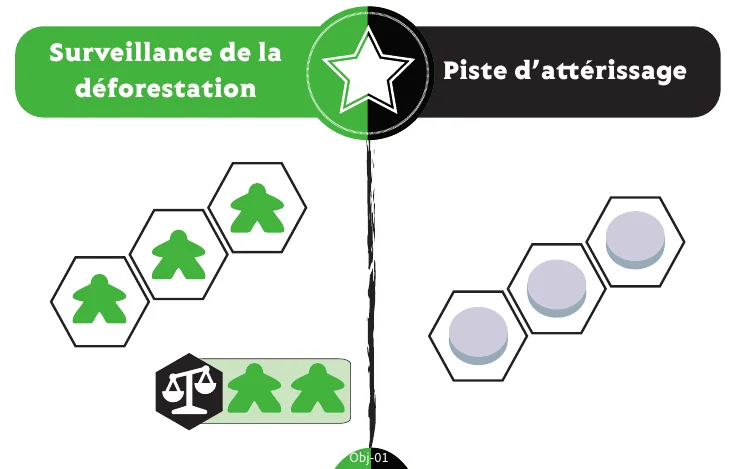
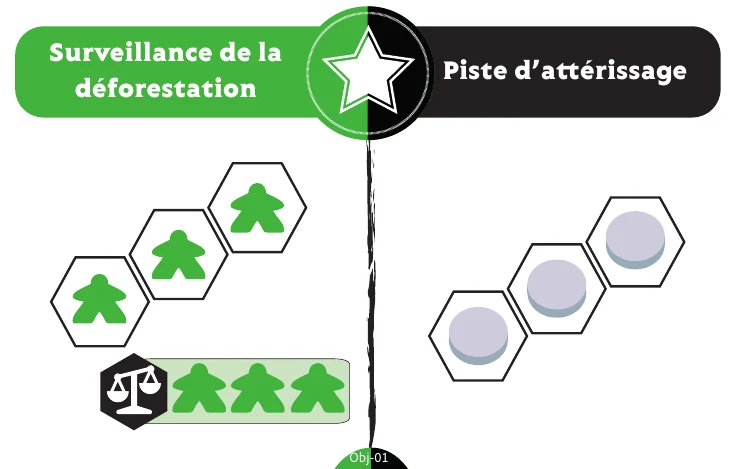
Animaux : 1 $ par manche (nouveaux plateaux Exploitant), Objectifs 01/03/05/07/13 mis à jour, IA plus coopérative
Claude-Session: https://claude.ai/code/session_019mekHYufM5kYLzaHXRVvRv

Changed region(s): [[0.125, 0.7463, 0.4062, 0.9254]]

diff --git a/index.html b/index.html
@@ -632,6 +632,7 @@ const CARD = Object.fromEntries([...PROTECTEURS,...ENQUETES,...LUXE,...EVENEMENT
 const BACK = { pr:'img/cards/back_pr.webp', en:'img/cards/back_en.webp', lx:'img/cards/back_lx.webp', ev:'img/cards/back_ev.webp' };
 const TOK = n => `img/tok/${n}.png`;
 let EXPL = ['orange','bleu'];
+const ANIMAL_INC = 1; // $ par Animal à chaque fin de manche
 const NAMES = { F:'le Protecteur', orange:'Orange', bleu:'Bleu', blanc:'Blanc' };
 const CAP = t => t.charAt(0).toUpperCase()+t.slice(1);
 const NAME = s => s==='F' ? 'le Protecteur' : (EXPL.includes(s) ? 'Exploitant '+(EXPL.indexOf(s)+1) : (NAMES[s]||s));
@@ -1009,7 +1010,7 @@ function endRound(){
     for (const c of EXPL){ S.expl[c].meeplesHand+=S.arenas[a][c]; } S.arenas[a]=Object.fromEntries(S.seats.map(x=>[x,0]));
   }
   // c) Revenus
-  for (const c of EXPL){ const n=S.expl[c].cards.Animal.length; if(n){ S.expl[c].money+=2*n; statM(c,'+Revenus des Animaux',2*n); log(`${CAP(NAME(c))} : revenus +${2*n} $ (${n} Animal).`); } }
+  for (const c of EXPL){ const n=S.expl[c].cards.Animal.length; if(n){ S.expl[c].money+=ANIMAL_INC*n; statM(c,'+Revenus des Animaux',ANIMAL_INC*n); log(`${CAP(NAME(c))} : revenus +${ANIMAL_INC*n} $ (${n} Animal).`); } }
   // d) Victoire des Exploitants
   const top=Math.max(...EXPL.map(c=>S.expl[c].vp));
   if (top>=4){ const cands=EXPL.filter(c=>S.expl[c].vp===top).sort((a,b)=>S.expl[b].money-S.expl[a].money); S.over={winner:cands[0],why:`${CAP(NAME(cands[0]))} atteint ${top} Prestige.`}; log(`🏆 ${NAME(cands[0])} gagne la partie !`, true); render(); return; }
@@ -1276,8 +1277,8 @@ function matchMulti(cells, k){ // k groupes disjoints du même motif, n'importe 
   return rec(0,new Set()) ? pick.flat() : null; }
 const arenaOk = (a,n) => S.arenas[a].F>=n;
 // Arène et nombre de Peuples demandés par chaque Objectif de la Forêt
-const OBJ_AR = { Obj01:['judiciaire',2], Obj02:['politique',3], Obj03:['judiciaire',3], Obj04:['politique',3], Obj05:['judiciaire',2], Obj06:['politique',2], Obj07:['politique',2], Obj08:['judiciaire',2],
-  Obj09:['media',2], Obj10:['media',2], Obj11:['media',2], Obj12:['media',2], Obj13:['judiciaire',2], Obj14:['media',4], Obj15:['politique',3] };
+const OBJ_AR = { Obj01:['judiciaire',3], Obj02:['politique',3], Obj03:['judiciaire',3], Obj04:['politique',3], Obj05:['judiciaire',2], Obj06:['politique',2], Obj07:['politique',3], Obj08:['judiciaire',2],
+  Obj09:['media',2], Obj10:['media',2], Obj11:['media',2], Obj12:['media',2], Obj13:['judiciaire',3], Obj14:['media',4], Obj15:['politique',3] };
 const fAr = id => arenaOk(...OBJ_AR[id]);
 const destroyProd = id => { const p=Z(id).piece; Z(id).piece=null; S.expl[p.owner].prod[p.kind]++; log(`${PROD[p.kind]} ${NAME(p.owner)} détruit.`); };
 function bestLine(id, filt){ // meilleure ligne (3 axes) passant par id : zones qui passent le filtre
@@ -1299,7 +1300,7 @@ const OBJ = {
           actF:{lbl:'Placer 2 Forêt du C',run(done){ pickZones('Coopérative','Cliquez une zone vide ou boisée',()=>S.forest.C?allZ().filter(canPlaceForest):[],2,id=>placeFromC(id),done); }},
           actE:{lbl:'Récolter 2 fois vos Bétail',run(c,done){ harvestKind(c,'betail'); harvestKind(c,'betail'); done(); }} },
   Obj03:{ F:()=>fAr('Obj03') && !prodZones('coca').length,
-          E:()=>matchPattern([[0,0,pK('coca')],[0,-1,pP],[-1,0,pP],[1,-1,pP],[-1,1,pP]]),
+          E:()=>matchPattern([[0,0,pK('coca')],[0,-1,pP],[-1,0,pP],[1,-1,pP]]),
           actF:{lbl:'Détruire 1 Coca',run(done){ pickZones('Narcotrafic','Cliquez la Coca à détruire',()=>prodZones('coca'),1,destroyProd,done); }},
           actE:{lbl:'Récolter 2 fois vos Coca',run(c,done){ harvestKind(c,'coca'); harvestKind(c,'coca'); done(); }} },
   Obj04:{ F:()=>fAr('Obj04') && !prodZones('soja').length,
@@ -1315,7 +1316,7 @@ const OBJ = {
           actF:{lbl:'1 Peuple sur une zone boisée adjacente à une production',run:placePeuple('Patrouilles',()=>allZ().filter(id=>isWooded(id)&&ZB[id].adj.some(isProd)))},
           actE:{lbl:'Retirer 2 jetons Forêt n’importe où',run(c,done){ pickZones('Scierie','Cliquez une zone boisée sans Peuple (1 jeton retiré)',()=>allZ().filter(id=>isWooded(id)&&!Z(id).meeple),2,id=>{ const z=Z(id); z.forest--; S.forest.C++; fly(TOK('foret_r'),{zone:id},{sel:'#sum-F .c-C'}); if(!z.forest&&z.res){ S.expl[c].storage[z.res]++; log(`${CAP(NAME(c))} prend 1 ${z.res==='or'?'Or':'Pétrole'} !`, true); z.res=null; } log('Scierie : 1 jeton Forêt retiré (vers C).'); },done,{repeat:true}); }} },
   Obj07:{ F:()=>fAr('Obj07') && !!matchMulti([[0,0,pD],[0,1,pM]],3),
-          E:()=>matchPattern([[0,0,pP],[-1,1,pP],[-2,2,pP],[-2,3,pP],[-2,4,pP]]),
+          E:()=>matchPattern([[0,0,pP],[1,0,pP],[2,0,pP],[1,1,pP]]),
           actF:{lbl:'Régénérer 3',run(done){ regenerate(3); done(); }},
           actE:{lbl:'Renforcer vos productions sur une ligne',run(c,done){ pickZones('Ligne électrique','Cliquez une de vos productions affaiblies : toutes celles de la même ligne sont renforcées',()=>myProds(c).filter(id=>Z(id).piece.weak),1,id=>{ bestLine(id,z=>{ const p=Z(z).piece; return p&&p.type==='prod'&&p.owner===c&&p.weak; }).forEach(z=>{ Z(z).piece.weak=false; ANIM.push({type:'flip',zone:z,from:TOK(`${c}_${Z(z).piece.kind}_v`),to:TOK(`${c}_${Z(z).piece.kind}_r`)}); }); log(`${CAP(NAME(c))} renforce ses productions sur une ligne.`); },done); }} },
   Obj08:{ F:()=>fAr('Obj08') && !!matchMulti([[0,0,onOil(pP)],[0,1,pM]],2),
@@ -1625,10 +1626,10 @@ function refreshT(){ UI.T = S.over ? EMPTYT() : S.pending.length ? (/^align/.tes
 
 /* ---------- Poids (appris d'une partie à l'autre) ---------- */
 const W0 = { // v3.1 : valeur de l'argent et des cultures calculée d'après les règles, ré-entraîné
-  E:{ vp:2.331, money:-0.197, res:3.125, prod:0.635, harvest:0.033, cards:0.747, ctDone:1.425, ctHand:0.368, atouts:0.354, donation:0.455, arena:0.686, frontier:0.132, forestTok:0.01, conscience:-8.665, rivalVp:-2.19, align:0.19, objProg:3, luxeReady:1.324, threat:-0.621, rivalObj:-0.8, forestObj:-2.289, forestArena:-0.999, objNear:2.5, moneyPV:3.855, prodPot:1.918 },
+  E:{ vp:2.331, money:-0.197, res:3.125, prod:0.635, harvest:0.033, cards:0.747, ctDone:1.425, ctHand:0.368, atouts:0.354, donation:0.455, arena:0.686, frontier:0.132, forestTok:0.01, conscience:-8.665, rivalVp:-2.19, align:0.19, objProg:3, luxeReady:1.324, threat:-0.621, rivalObj:-0.8, forestObj:-2.289, forestArena:-0.999, objNear:2.5, coop:1.5, moneyPV:3.855, prodPot:1.918 },
   F:{ conscience:20.018, wooded:1.961, forestTok:1.083, dense:0.949, meeples:0.852, arena:1.2, tokens:0.912, published:5.68, fresque:3.33, hand:0.715, explVp:-7.866, explProd:-3.991, explMoney:-0.483, align:2.274, objProg:7.769, pubReady:2.565, exposed:-0.418, explObj:-2.468, explNear:-3 },
 };
-function aiStore(){ try{ return JSON.parse(localStorage.getItem('amazonia_ai_v31')||'null'); }catch(e){ return null; } }
+function aiStore(){ try{ return JSON.parse(localStorage.getItem('amazonia_ai_v32')||'null'); }catch(e){ return null; } }
 function freshRole(r,w){ return { champ:{...w}, chall:mutate(w), cg:0, cs:0, xg:0, xs:0, gen:1, games:0, promos:0 }; }
 function aiBrain(){ // cerveau : champion + challenger testé à tour de rôle (partagé en ligne si possible)
   let b=aiStore();
@@ -1636,14 +1637,14 @@ function aiBrain(){ // cerveau : champion + challenger testé à tour de rôle (
   for (const r of ['E','F']) for (const k in W0[r]){ if(b.roles[r].champ[k]===undefined) b.roles[r].champ[k]=W0[r][k]; if(b.roles[r].chall[k]===undefined) b.roles[r].chall[k]=b.roles[r].champ[k]; }
   return b;
 }
-function aiSaveBrain(b){ try{ localStorage.setItem('amazonia_ai_v31', JSON.stringify(b)); }catch(e){} }
+function aiSaveBrain(b){ try{ localStorage.setItem('amazonia_ai_v32', JSON.stringify(b)); }catch(e){} }
 function gauss(){ return Math.sqrt(-2*Math.log(Math.random()||1e-9))*Math.cos(2*Math.PI*Math.random()); }
 function mutate(w){ const o={}; for (const k in w) o[k]=+(w[k]*(1+0.12*gauss())).toFixed(3); return o; }
 let BRAIN=null, BDB=null;
 function brainDB(){ if (BDB!==null) return BDB; try{ BDB = /fbfake/.test(location.hash) ? fakeDB() : fbDB(); }catch(e){ BDB=false; } return BDB; }
 function brainSync(){ // récupère le cerveau partagé
   const db=brainDB(); if(!db) return;
-  db.ready.then(()=>db.get(`${R}/brain31`)).then(v=>{ if (v&&v.roles&&v.roles.F&&v.roles.F.champ){ BRAIN=v; aiSaveBrain(v); if(!STARTED) showStart(); } else { const b=BRAIN||aiBrain(); db.tx(`${R}/brain31`, cur=>cur||b); } }).catch(()=>{});
+  db.ready.then(()=>db.get(`${R}/brain32`)).then(v=>{ if (v&&v.roles&&v.roles.F&&v.roles.F.champ){ BRAIN=v; aiSaveBrain(v); if(!STARTED) showStart(); } else { const b=BRAIN||aiBrain(); db.tx(`${R}/brain32`, cur=>cur||b); } }).catch(()=>{});
 }
 function aiAssign(){ // au lancement d'une partie : chaque camp IA reçoit le champion ou le challenger
   const b=BRAIN||(BRAIN=aiBrain()); S.aiW={}; S.aiUse={}; S.aiGen={};
@@ -1669,7 +1670,7 @@ function aiLearn(){
   const b=BRAIN||(BRAIN=aiBrain()); b.games=(b.games||0)+1;
   for (const r in res) b.roles[r]=learnRole(b.roles[r], S.aiUse[r], S.aiGen[r], res[r]);
   aiSaveBrain(b);
-  const db=brainDB(); if (db) db.ready.then(()=>{ for (const r in res) db.tx(`${R}/brain31/roles/${r}`, cur=>learnRole(cur, S.aiUse[r], S.aiGen[r], res[r])); db.tx(`${R}/brain31/games`, n=>(n||0)+1); }).catch(()=>{});
+  const db=brainDB(); if (db) db.ready.then(()=>{ for (const r in res) db.tx(`${R}/brain32/roles/${r}`, cur=>learnRole(cur, S.aiUse[r], S.aiGen[r], res[r])); db.tx(`${R}/brain32/games`, n=>(n||0)+1); }).catch(()=>{});
   log('🤖 L’IA retient cette partie pour s’améliorer.');
 }
 
@@ -1677,11 +1678,11 @@ function aiLearn(){
 const OBJ_PART = { // motifs côté Exploitant (progrès partiel pour l'IA)
   Obj01:()=>SHAPE.line.map(c=>[...c,pP]),
   Obj02:()=>[[0,0,pK('betail')],[1,0,pE],[0,1,pE],[1,1,pK('betail')]],
-  Obj03:()=>[[0,0,pK('coca')],[0,-1,pP],[-1,0,pP],[1,-1,pP],[-1,1,pP]],
+  Obj03:()=>[[0,0,pK('coca')],[0,-1,pP],[-1,0,pP],[1,-1,pP]],
   Obj04:()=>[[0,0,pK('soja')],[1,-1,pK('soja')],[1,0,pK('soja')],[0,1,pBase]],
   Obj05:()=>SHAPE.zig5.map(c=>[...c,pP]),
   Obj06:()=>[[0,0,pD],[-1,1,pD],[1,0,pP],[0,1,pP],[-1,2,pP]],
-  Obj07:()=>[[0,0,pP],[-1,1,pP],[-2,2,pP],[-2,3,pP],[-2,4,pP]],
+  Obj07:()=>[[0,0,pP],[1,0,pP],[2,0,pP],[1,1,pP]],
   Obj08:()=>[[0,0,onOil(pP)],[-1,1,pP],[-1,2,onOil(pP)]],
   Obj09:()=>[[0,0,pP],[0,1,onMine(pP)],[-1,2,pP],[1,1,pP]],
   Obj10:()=>[[0,0,pP],[1,0,pP],[1,1,pP],[2,1,pP]],
@@ -1708,18 +1709,18 @@ function partialPatF(key){ let best=0; for (const pl of placements('F'+key, CELL
     if (!bad && ok/pl.length>best) best=ok/pl.length; } return best; }
 function objInfo(){ // IA opportuniste : motifs partagés, participation possible, motifs à 1 coup de la fin
   const adj=Object.fromEntries(EXPL.map(c=>[c,new Set(explAdj(c))]));
-  const R={prog:{},near:{},excl:{},anyNear:0}; EXPL.forEach(c=>{ R.prog[c]=0; R.near[c]=0; R.excl[c]=0; });
+  const R={prog:{},near:{},excl:{},coop:{},anyNear:0}; EXPL.forEach(c=>{ R.prog[c]=0; R.near[c]=0; R.excl[c]=0; R.coop[c]=0; });
   for (const id of S.objectifs){ const cells=OBJ_CELLS[id]; if(!cells) continue;
-    const best={}, nb={}, ex={}; EXPL.forEach(c=>{ best[c]=0; nb[c]=0; ex[c]=0; }); let anyN=0;
+    const best={}, nb={}, ex={}, co={}; EXPL.forEach(c=>{ best[c]=0; nb[c]=0; ex[c]=0; co[c]=0; }); let anyN=0;
     for (const pl of placements('E'+id, cells)){ let ok=0, bad=false; const own=new Set(), miss=[];
       for (const [z,f] of pl){ if (f(z)){ ok++; const p=Z(z).piece; if(p&&p.owner) own.add(p.owner); } else if (Z(z).piece){ bad=true; break; } else miss.push(z); }
       if (bad||!ok) continue; const v=ok/pl.length;
       for (const c of EXPL){ const mine=own.has(c), join=miss.some(z=>adj[c].has(z)&&isEmpty(z));
-        const x=v*(mine?1:join?0.8:0.3); if (x>best[c]) best[c]=x;
+        const x=v*(mine?1:join?0.95:0.3); if (x>best[c]) best[c]=x; if (mine && own.size>=2 && v>co[c]) co[c]=v;
         if (miss.length===1 && isEmpty(miss[0]) && (mine||join) && (adj[c].has(miss[0])||mine)) nb[c]=1;
         if (!mine && !join && own.size && v>ex[c]) ex[c]=v; }
       if (miss.length===1 && isEmpty(miss[0]) && EXPL.some(c=>adj[c].has(miss[0]))) anyN=1; }
-    EXPL.forEach(c=>{ R.prog[c]+=best[c]*best[c]; R.near[c]+=nb[c]; R.excl[c]+=ex[c]*ex[c]; }); R.anyNear+=anyN; }
+    EXPL.forEach(c=>{ R.prog[c]+=best[c]*best[c]; R.near[c]+=nb[c]; R.excl[c]+=ex[c]*ex[c]; R.coop[c]+=co[c]*co[c]; }); R.anyNear+=anyN; }
   return R;
 }
 function objProgAll(){ return objInfo().prog; }
@@ -1752,13 +1753,13 @@ function evalSeat(seat){
     const e=S.expl[seat], mine=prods.filter(id=>Z(id).piece.owner===seat);
     f.vp=e.vp + (S.over? (S.over.winner===seat?20:-20):0); f.money=e.money; f.res=e.storage.or*5+e.storage.petrole*3+e.storage.forest;
     f.prod=mine.reduce((n,id)=>n+(Z(id).piece.weak?0.5:1),0); f.harvest=mine.reduce((n,id)=>n+harvestValue(id)*(Z(id).piece.weak?0.6:1),0);
-    f.cards=e.cards.Animal.length*2+e.cards.Personne.length*1.2+e.cards.Esprit.length*1.3+e.luxe.length;
+    f.cards=e.cards.Animal.length*ANIMAL_INC+e.cards.Personne.length*1.2+e.cards.Esprit.length*1.3+e.luxe.length;
     f.ctDone=(e.ctDone||[]).length; f.ctHand=e.contrats.filter(id=>ctOk(seat,id)).length*3+e.contrats.length*0.2; f.atouts=e.atouts.length;
     f.donation=e.donation; f.arena=ARENAS.reduce((n,a)=>n+S.arenas[a][seat]-S.arenas[a].F*0.4,0);
     f.frontier=explAdj(seat).filter(id=>isEmpty(id)||isWooded(id)).length; f.forestTok=forestTok; f.conscience=S.conscience;
     f.rivalVp=Math.max(0,...EXPL.filter(c=>c!==seat).map(c=>S.expl[c].vp)); f.align=ARENAS.reduce((n,a)=>n+(2-S.align[a]),0);
     if (w.moneyPV!==undefined){ const lc=10+S.conscience; f.moneyPV=Math.min(e.money,40)/lc; f.prodPot=mine.reduce((n,id)=>n+harvestValue(id)*(Z(id).piece.weak?1:1.8),0)/lc;  f.res=(e.storage.or*5+e.storage.petrole*3+e.storage.forest)/lc; }
-    if (w.objProg!==undefined){ const OI=objInfo(), OP=OI.prog; f.objProg=OP[seat]; f.objNear=OI.near[seat]; f.luxeReady=S.luxe.length?Math.min(1,e.money/(10+S.conscience)):0; f.threat=threatE(seat); f.rivalObj=OI.excl[seat]; f.forestObj=objProgF(); f.forestArena=ARENAS.reduce((n,a)=>n+Math.min(2,S.arenas[a].F),0); }
+    if (w.objProg!==undefined){ const OI=objInfo(), OP=OI.prog; f.objProg=OP[seat]; f.objNear=OI.near[seat]; f.luxeReady=S.luxe.length?Math.min(1,e.money/(10+S.conscience)):0; f.threat=threatE(seat); f.rivalObj=OI.excl[seat]; f.coop=OI.coop[seat]; f.forestObj=objProgF(); f.forestArena=ARENAS.reduce((n,a)=>n+Math.min(2,S.arenas[a].F),0); }
   }
   let sc=0; for (const k in f) sc+=(w[k]||0)*f[k]; return sc;
 }
@@ -2697,7 +2698,7 @@ const TUTO = [
      <ul><li><b>Politique</b> : en bas, la Forêt régénère 3 jetons ; en haut, chaque Exploitant présent gagne 1 $ et pioche 1 Atout.</li>
      <li><b>Judiciaire</b> : en bas, la Forêt reboise 2 (gratuit) ; en haut, chaque Exploitant présent pose 1 production (comme Exploiter).</li>
      <li><b>Médiatique</b> : en bas, la Forêt pose 1 Peuple sur une zone boisée ; en haut, chaque Exploitant présent peut défausser X Atouts pour gagner X+1 $.</li></ul></li>
-   <li><b>Revenus</b> : chaque carte Animal achetée rapporte 2 $.</li>
+   <li><b>Revenus</b> : chaque carte Animal achetée rapporte 1 $.</li>
    <li><b>Victoire ?</b> Un Exploitant à 4 ⭐ ou plus gagne.</li>
    <li><b>Conscience</b> : le pion avance d’une case.</li>
    <li><b>Récupération</b> : la Forêt régénère ses jetons, les Exploitants reprennent leurs jetons d’action.</li>
@@ -2721,7 +2722,7 @@ const TUTO = [
    <div>${TI('orange_influencer.webp')}<p><b>Influencer</b> : placer un meeple dans une Arène, ou piocher un Atout ou un Contrat (5 de chaque au maximum en main).</p></div></div>
    <p class="tip">« Adjacent » = touchant une zone où tu as déjà un jeton (camp de base, culture, meeple…).</p>` },
  { t:'Cartes des Exploitants', img:['img/cards/at01.webp','img/cards/ct01.webp','img/cards/ob01.webp'], h:`
-   <ul><li><b>Cartes Forêt achetées</b> : glissées sous ton plateau, elles donnent des bonus. Chaque Animal rapporte 2 $ par manche, 2 Personnes retournent un jeton d’action sur sa face verso, et 3 Esprits donnent 1 ⭐.</li>
+   <ul><li><b>Cartes Forêt achetées</b> : glissées sous ton plateau, elles donnent des bonus. Chaque Animal rapporte 1 $ par manche, 2 Personnes retournent un jeton d’action sur sa face verso, et 3 Esprits donnent 1 ⭐.</li>
    <li><b>Atouts</b> : des coups spéciaux à acheter depuis ta main (5 Atouts max).</li>
    <li><b>Contrats</b> : des défis. Quand tu remplis la condition, le Contrat se glisse sous une action et la <b>renforce pour toujours</b>. Tous les 3 Contrats : 1 ⭐. Tu peux garder 5 Contrats en main.</li>
    <li><b>Objectifs</b> : former un motif précis sur le plateau, dans n’importe quel sens. Tous les participants gagnent de l’argent, et l’Objectif devient une nouvelle action.</li></ul>` },
@@ -2822,7 +2823,7 @@ const COACH=[
  {t:'À toi de jouer', wait:()=>!S.turn&&!S.pending.length, txt:()=>{ const s=tSeat(); const tip=!s?'':s==='F'?`<b>Protéger</b> pose un Peuple sur une zone dense, qu’on ne peut alors plus déforester. <b>Résister</b> affaiblit les cultures voisines d’un Peuple.`:`Essaie <b>Récolter</b> pour vendre ton bois ou tes cultures. <b>Influencer</b> peut aussi piocher des <b>Contrats</b> : quand tu en remplis un, il renforce une action pour toujours.`;
    return `Chaque camp a <b>3 tours</b> par manche, soit 6 jetons d’action. Finis la manche librement : seuls les coups permis sont cliquables, et <b>↶</b> annule.<br><br>💡 ${tip}${s&&s!=='F'&&tRes(s)?'<br>💡 Pense à ton Or/Pétrole !':''}`; }},
  {t:'Fin de manche', hl:['[data-a="endround"]'], wait:()=>S.round>=2, txt:()=>S.turn===null&&!S.pending.length?`La phase Actions est finie.<br>👉 Clique <b>Résoudre la fin de manche</b>.`:`La fin de manche est en cours…`},
- {t:'Ce qui s’est passé', next:true, hl:['#sumbar','#log'], txt:()=>`La fin de manche s’est jouée automatiquement :<br>1. <b>Rapport de force</b> dans les Arènes (avec un bonus si l’Alignement était déjà au bout de sa piste) ;<br>2. <b>Revenus</b> (2 $ par Animal) ;<br>3. la <b>Conscience</b> avance d’une case ;<br>4. la Forêt <b>régénère</b> ses jetons (C → A, B → C), les Exploitants reprennent leurs jetons ;<br>5. <b>pioche</b> selon l’Alignement médiatique ;<br>6. la Rivière se décale.<br>Tout est noté dans le <b>Journal</b>.`},
+ {t:'Ce qui s’est passé', next:true, hl:['#sumbar','#log'], txt:()=>`La fin de manche s’est jouée automatiquement :<br>1. <b>Rapport de force</b> dans les Arènes (avec un bonus si l’Alignement était déjà au bout de sa piste) ;<br>2. <b>Revenus</b> (1 $ par Animal) ;<br>3. la <b>Conscience</b> avance d’une case ;<br>4. la Forêt <b>régénère</b> ses jetons (C → A, B → C), les Exploitants reprennent leurs jetons ;<br>5. <b>pioche</b> selon l’Alignement médiatique ;<br>6. la Rivière se décale.<br>Tout est noté dans le <b>Journal</b>.`},
  {t:'Tu sais jouer !', end:true, txt:()=>`Bravo ! Tu connais l’essentiel.<br>Pour les détails, chaque carte et chaque bouton ont une info-bulle au survol.<br>Que veux-tu faire ?`},
 ];
 function startCoach(){ UNDO=[]; TURNSNAP=null; newGame(3); S.ai={F:false,orange:false,bleu:false}; S.tuto=true; VIEW='orange'; TUT={on:true,i:0}; STARTED=true;
